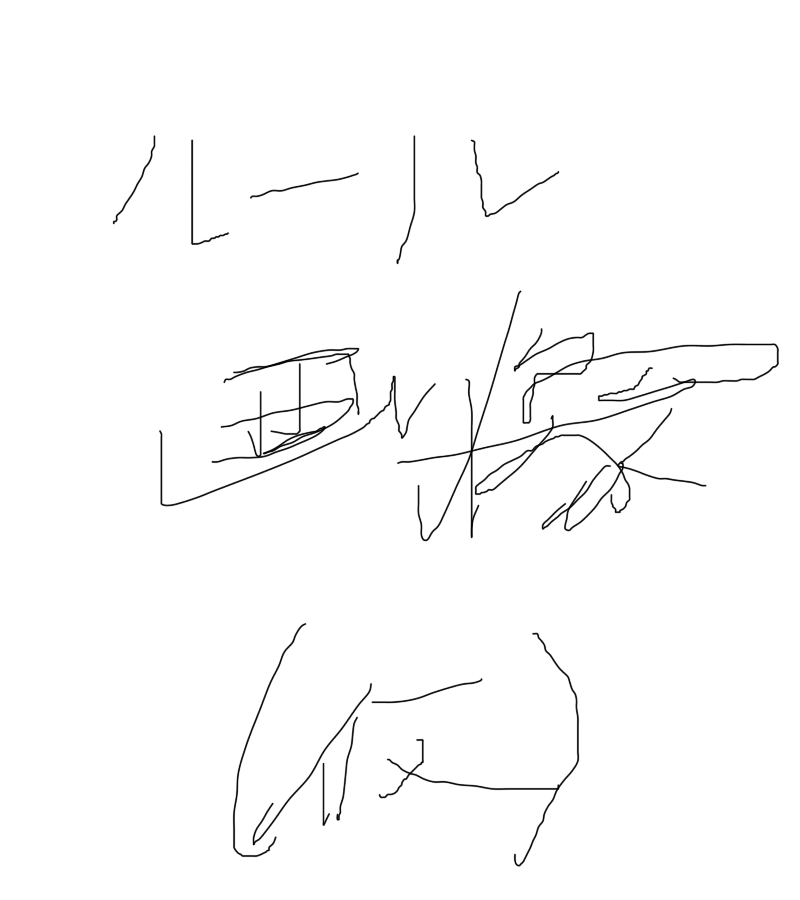
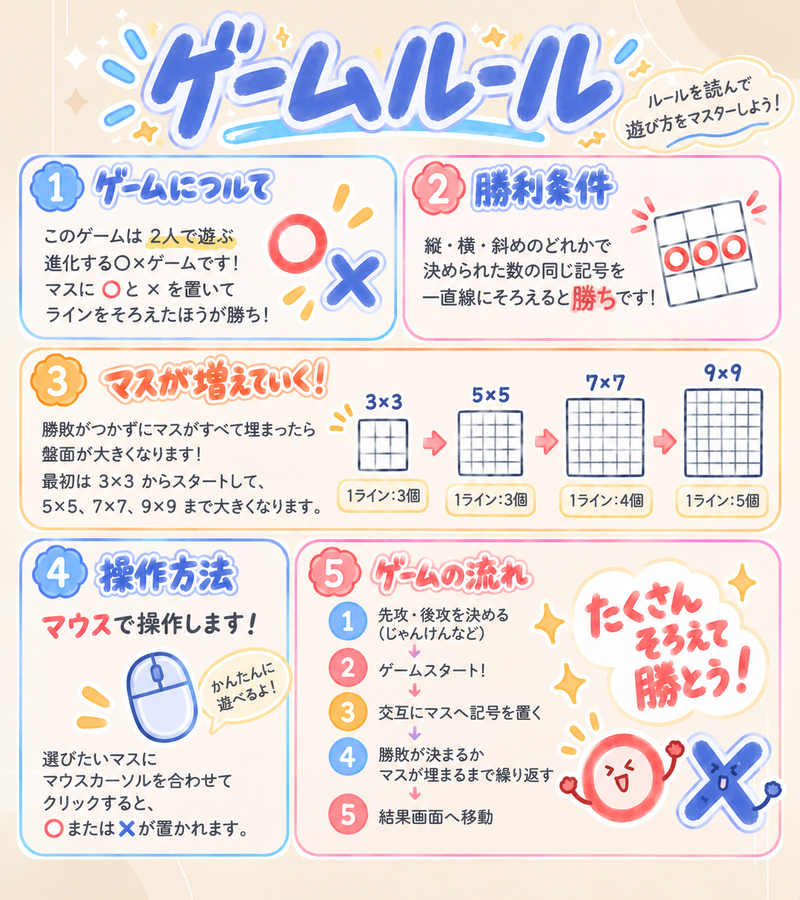
ルール画像の置き換え

diff --git a/Game.cpp b/Game.cpp
@@ -85,7 +85,6 @@ void Game::Render()
 	if (nowScene == SCENE_RESULT)
 	{
 		ResultObj.Render(gameResult);
-
 	}
 }
 
@@ -94,6 +93,7 @@ void Game::Exit()
 	// 初期化した画面のリソースを解放する。未接続の Result は初期化・解放しない。
 	TitleObj.Exit();
 	RuleObj.Exit();
+	ResultObj.Exit();
 }
 
 bool Game::IsExitRequested() const
